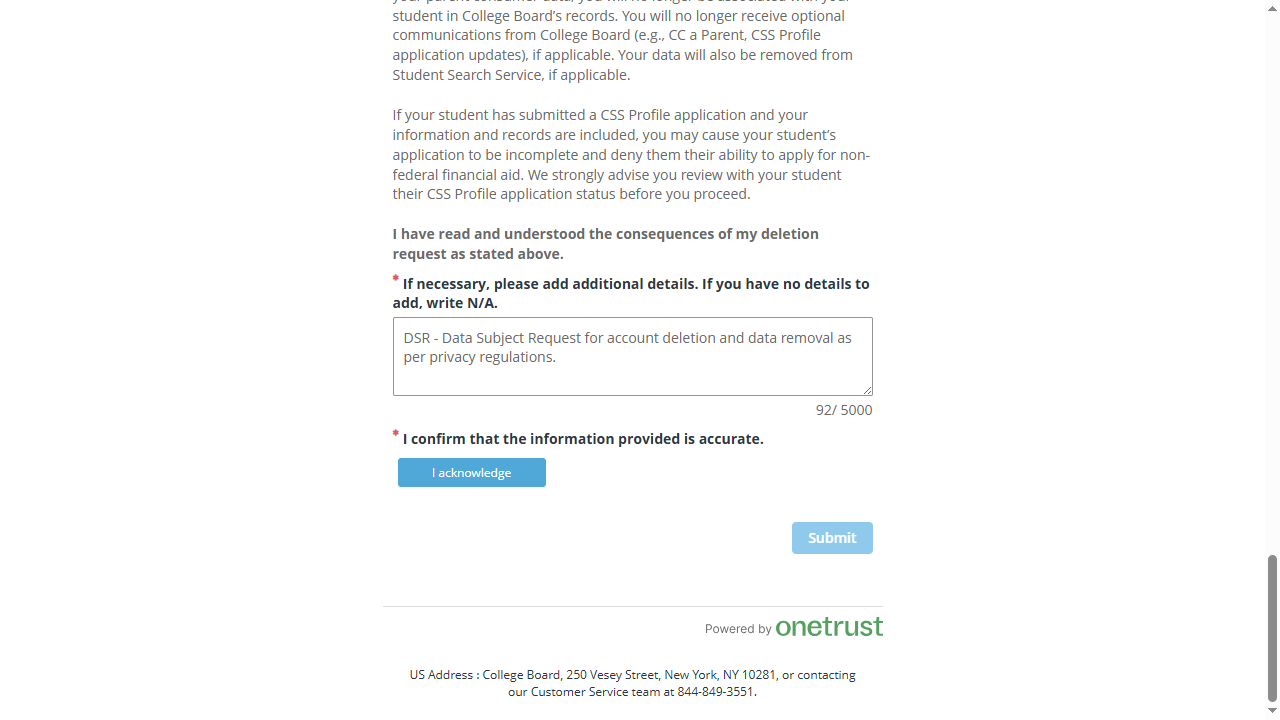
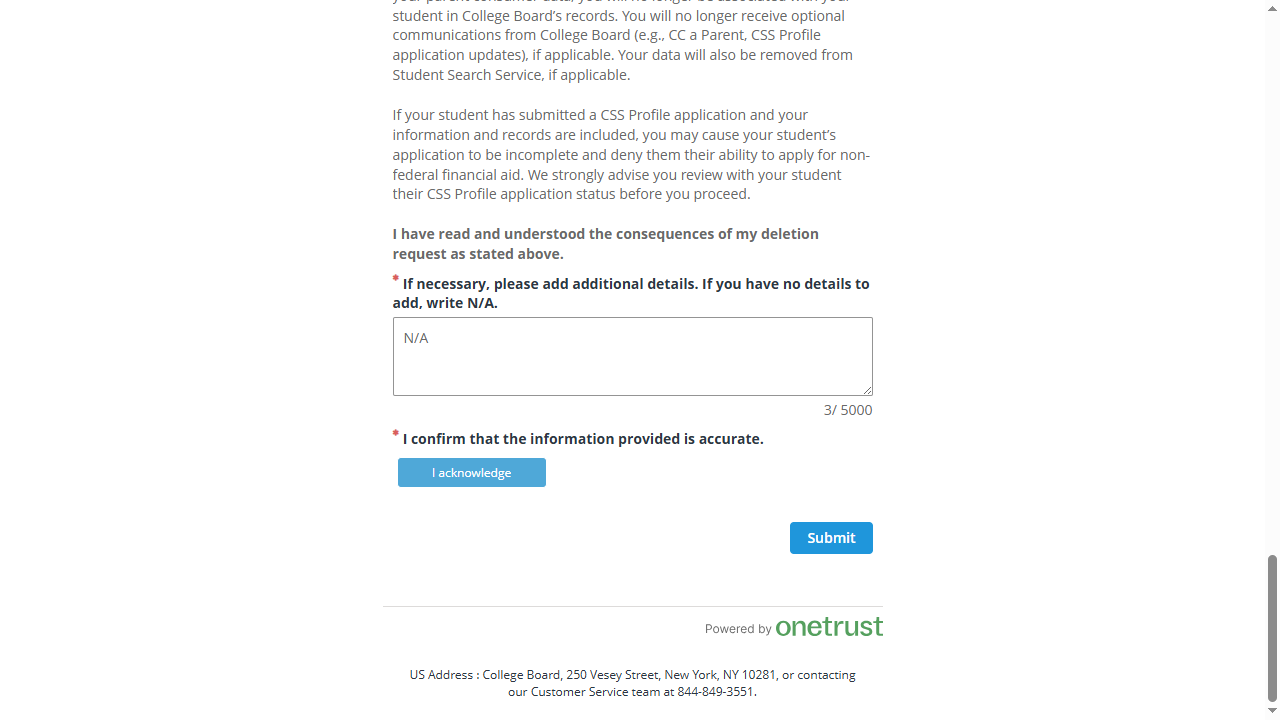
commit

Changed region(s): [[0.3125, 0.4583, 0.6562, 0.5194], [0.5938, 0.7028, 0.6875, 0.7944]]

diff --git a/Newfolder/dsr/scripts/International_educator_requesttypes_submission_MULTIPLE.py b/Newfolder/dsr/scripts/International_educator_requesttypes_submission_MULTIPLE.py
@@ -2380,13 +2380,13 @@ class TestPrivacyPortal:
                             # Check for text input field after selecting the option
                             print(f"  🔍 Looking for text input after selecting {description}...")
                             text_input_selectors = [
-                                "input[type='text']:visible",
-                                "textarea:visible", 
-                                "input[placeholder*='details']:visible",
-                                "input[placeholder*='information']:visible",
-                                "textarea[placeholder*='details']:visible",
-                                "textarea[placeholder*='information']:visible",
-                                "input:not([type='hidden']):not([type='radio']):not([type='checkbox']):visible"
+                                "input[type='text']:visible:not([placeholder*='phone']):not([placeholder*='Phone']):not([name*='phone']):not([id*='phone']):not([type='tel'])",
+                                "textarea:visible:not([placeholder*='phone']):not([placeholder*='Phone']):not([name*='phone']):not([id*='phone'])", 
+                                "input[placeholder*='details']:visible:not([placeholder*='phone']):not([placeholder*='Phone']):not([name*='phone']):not([id*='phone']):not([type='tel'])",
+                                "input[placeholder*='information']:visible:not([placeholder*='phone']):not([placeholder*='Phone']):not([name*='phone']):not([id*='phone']):not([type='tel'])",
+                                "textarea[placeholder*='details']:visible:not([placeholder*='phone']):not([placeholder*='Phone']):not([name*='phone']):not([id*='phone'])",
+                                "textarea[placeholder*='information']:visible:not([placeholder*='phone']):not([placeholder*='Phone']):not([name*='phone']):not([id*='phone'])",
+                                "input:not([type='hidden']):not([type='radio']):not([type='checkbox']):not([type='tel']):not([type='phone']):not([placeholder*='phone']):not([placeholder*='Phone']):not([name*='phone']):not([id*='phone']):visible"
                             ]
                             
                             text_input_found = False
@@ -2395,10 +2395,31 @@ class TestPrivacyPortal:
                                     text_inputs = page.locator(text_selector).all()
                                     for text_input in text_inputs:
                                         if text_input.is_visible():
+                                            # Double-check this is not a phone field
+                                            element_attrs = {
+                                                'placeholder': text_input.get_attribute('placeholder') or '',
+                                                'name': text_input.get_attribute('name') or '',
+                                                'id': text_input.get_attribute('id') or '',
+                                                'type': text_input.get_attribute('type') or '',
+                                                'aria-label': text_input.get_attribute('aria-label') or ''
+                                            }
+                                            
+                                            # Skip if ANY attribute contains phone-related keywords
+                                            phone_indicators = ['phone', 'telephone', 'tel', 'mobile', 'cell']
+                                            is_phone_field = any(
+                                                any(indicator.lower() in attr_value.lower() for indicator in phone_indicators)
+                                                for attr_value in element_attrs.values() if attr_value
+                                            )
+                                            
+                                            if is_phone_field:
+                                                print(f"  🚫 Skipping phone field: {element_attrs}")
+                                                continue
+                                            
+                                            # Check if this is a new text input (not pre-filled)
                                             current_value = text_input.input_value()
                                             if not current_value or len(current_value.strip()) == 0:
-                                                text_input.fill("Account closure request")
-                                                print(f"  ✅ Entered 'Account closure request' in text input for {description}")
+                                                # Leave the text input empty as requested by user
+                                                print(f"  ✅ Found text input for {description} - leaving empty as requested")
                                                 text_input_found = True
                                                 time.sleep(1)
                                                 break
